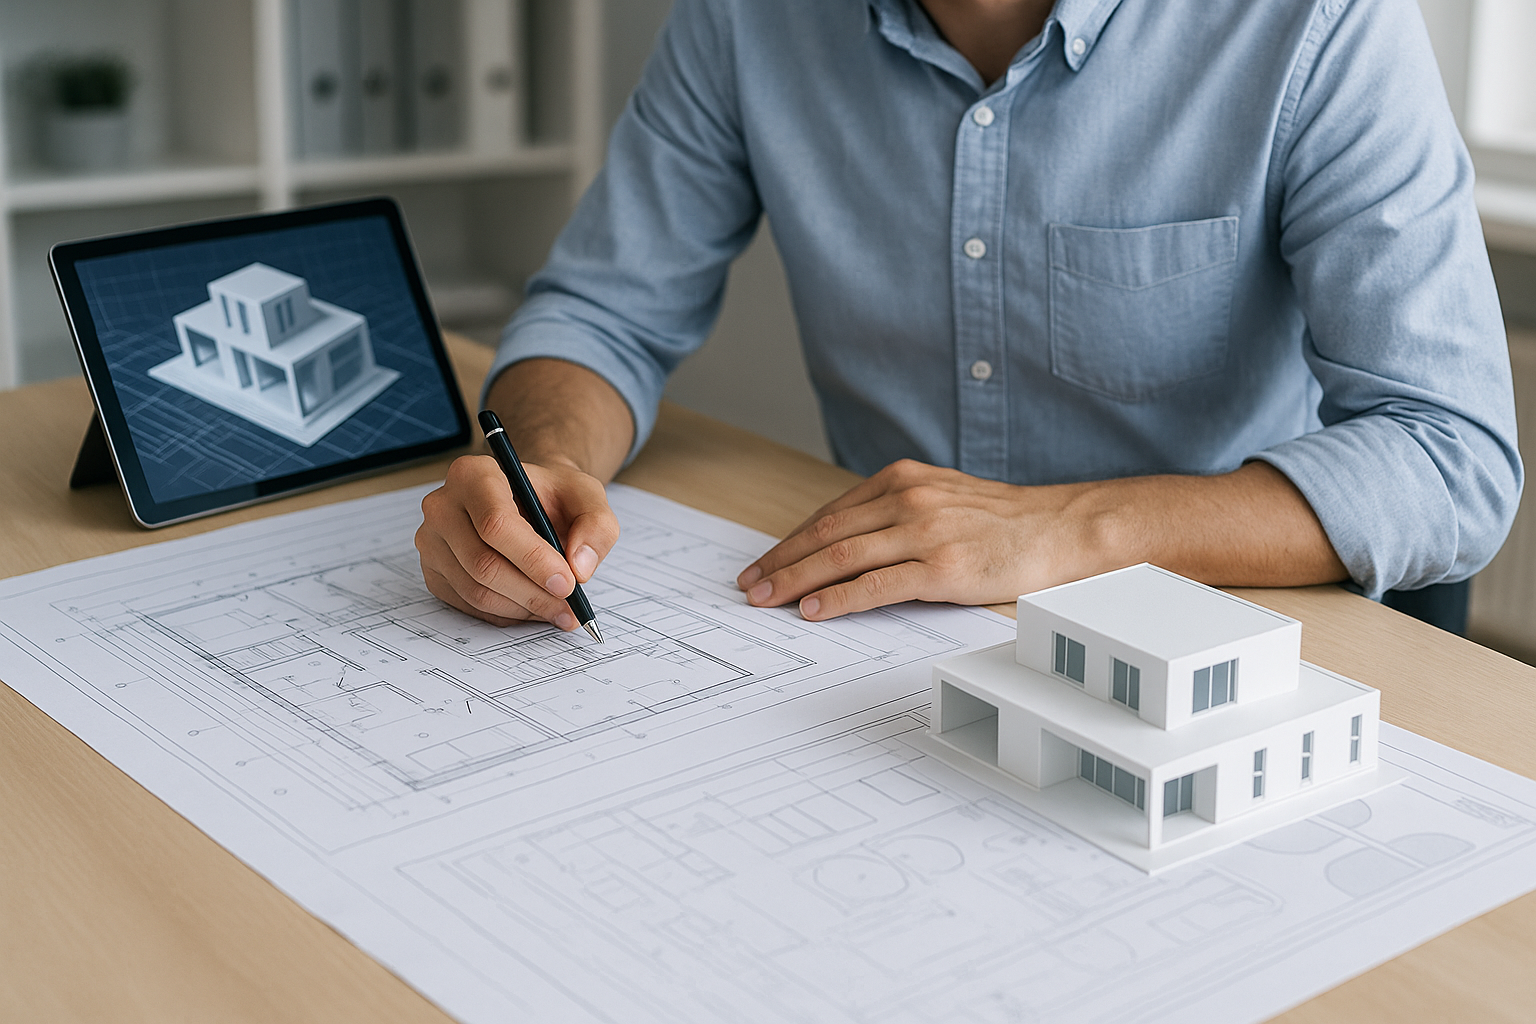
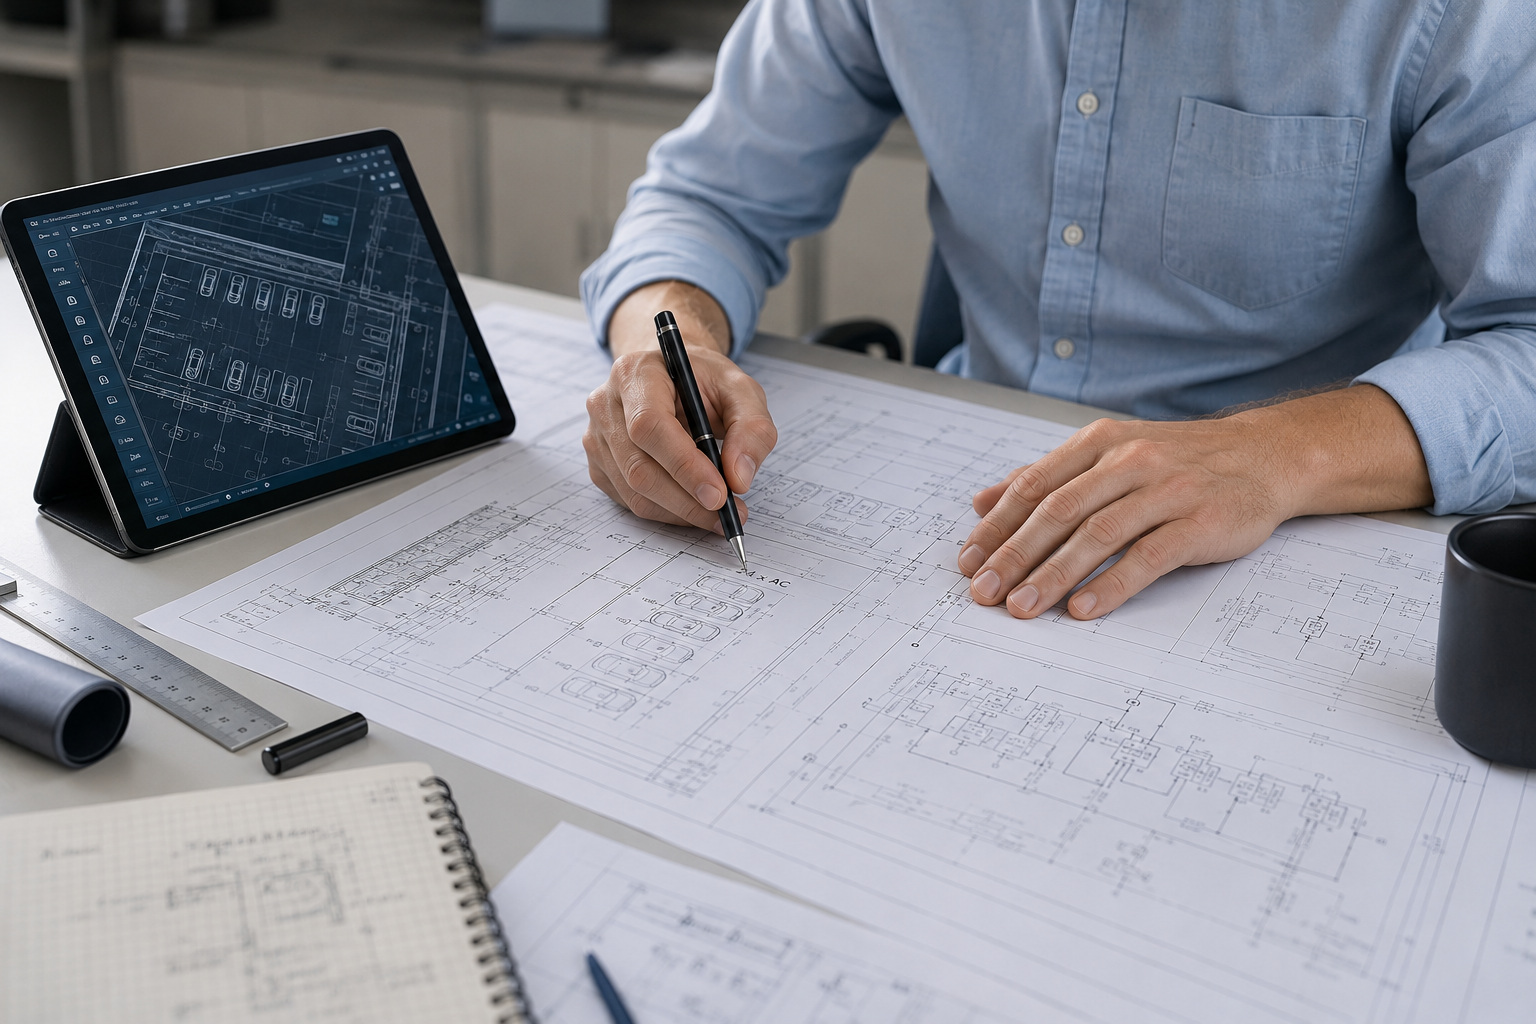
Bilder geändert

diff --git a/index.html b/index.html
@@ -139,7 +139,7 @@
     </header>
     <div class="project-grid">
       <a class="project reveal-up" href="projekte.html#Ladehub">
-        <div class="thumb" data-bg="assets/ladehub neu.png" style="background-size: cover; background-position: center; position: relative;">
+        <div class="thumb" data-bg="assets/eCharge.PNG" style="background-size: cover; background-position: center; position: relative;">
           <span class="category-label mobilitaet">Mobilität</span>
         </div>
         <div class="meta">

diff --git a/projekte.html b/projekte.html
@@ -52,7 +52,7 @@
 
   <section class="project-list">
     <article id="Ladehub" class="project-detail reveal-up delay-1">
-      <div class="pd-media" data-bg="assets/ladehub neu.png" style="background-size: cover; background-position: center; background-repeat: no-repeat;"></div>
+      <div class="pd-media" data-bg="assets/eCharge.PNG" style="background-size: cover; background-position: center; background-repeat: no-repeat;"></div>
       <div class="pd-body">
         <h2>Ladehub – urbane Schnellladeinfrastruktur</h2>
         <p>Planung eines urbanen Schnelllade-Hubs mit optimiertem Lastmanagement und wirtschaftlichem Betriebskonzept.</p>